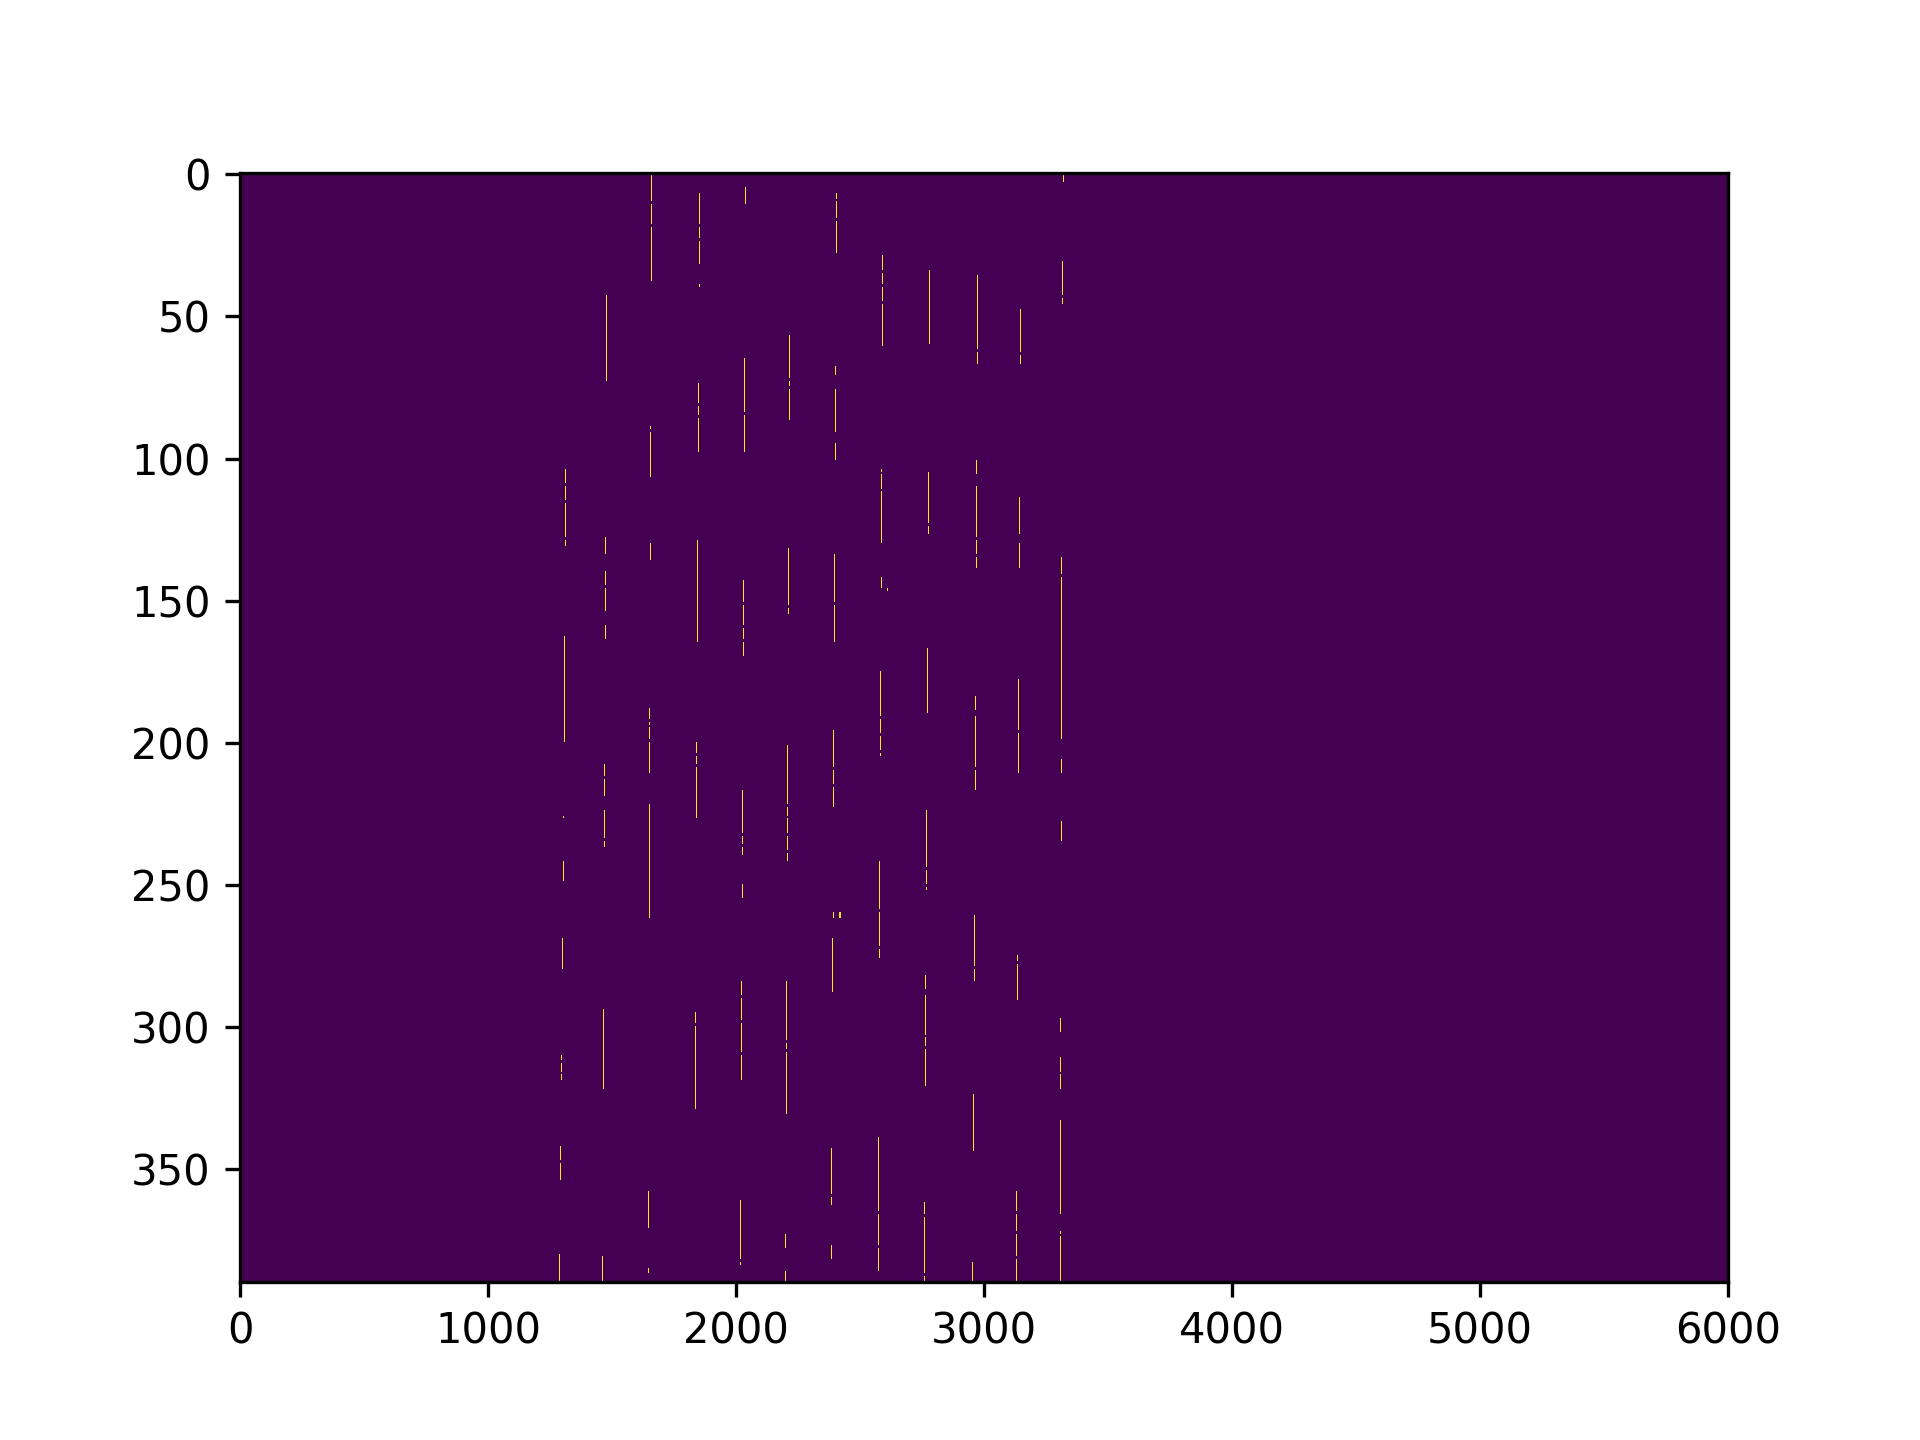
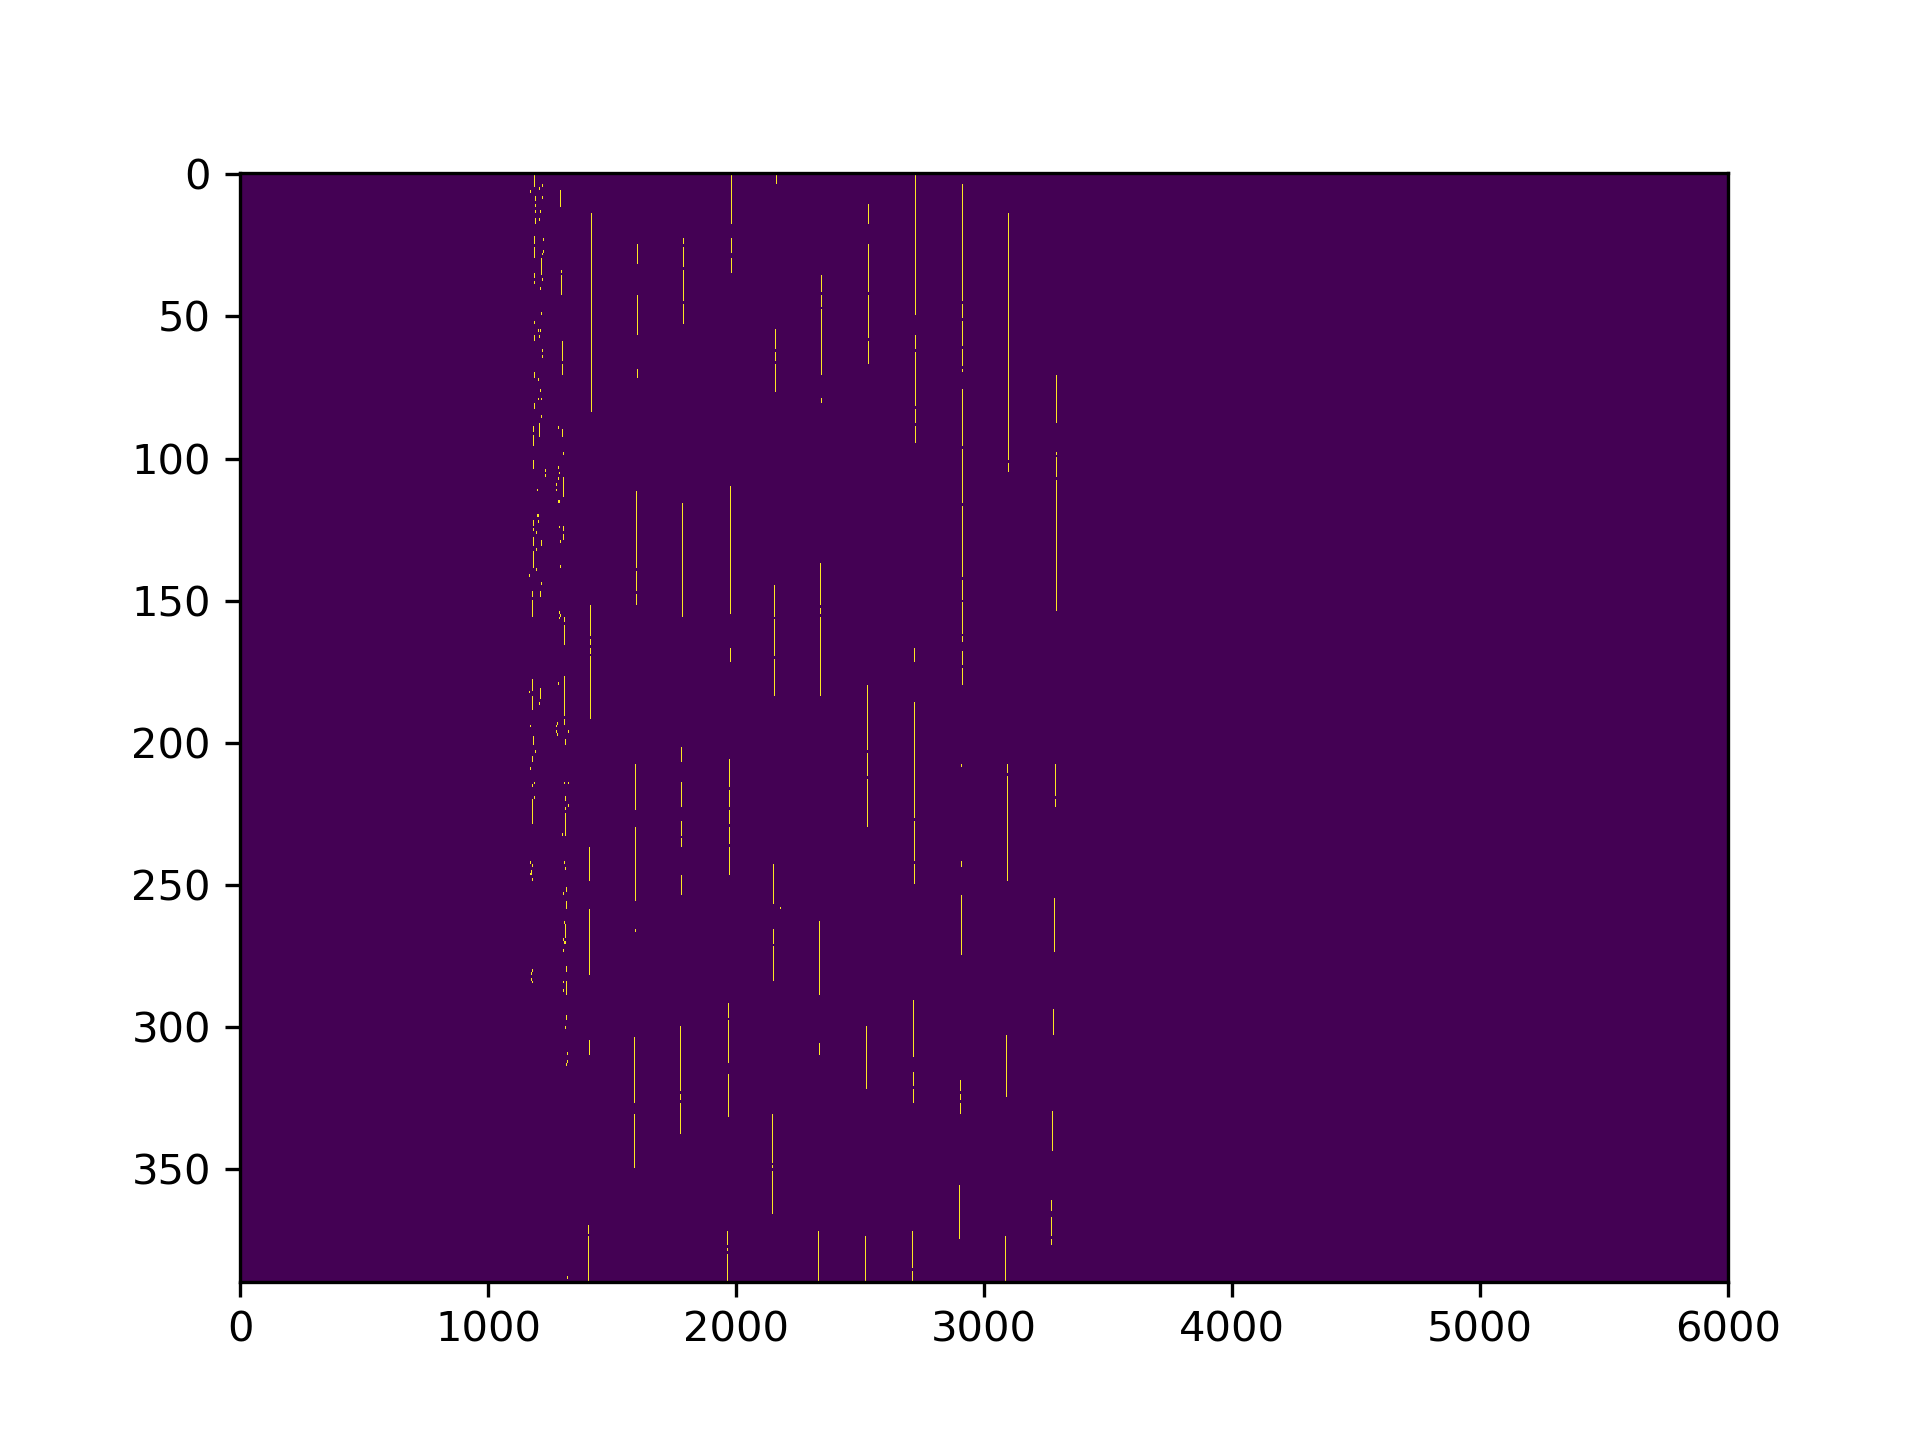
Linux MP changes

diff --git a/sectorImage/core/calibration.py b/sectorImage/core/calibration.py
@@ -104,8 +104,11 @@ class Calibrator:
             im += (np.abs(im_y) * scaling).astype(np.int16, copy=False)
             del im_y
         else:
-
-            im = cv2.linearPolar(im, c_estimate, im.shape[1] + dx, cv2.WARP_INVERSE_MAP)
+            # Apparently opencv breaks if the transformed image isn't copied first in multiprocessing.
+            # Go figure...
+            cpy = np.copy(im)
+            im = cv2.linearPolar(cpy, c_estimate, im.shape[1] + dx, cv2.WARP_INVERSE_MAP)
+            print(np.max(im))
             im *= -1
 
         # cv2.threshold(src=im, dst=im, thresh=0, maxval=255, type=cv2.THRESH_TOZERO)[1]
@@ -113,15 +116,16 @@ class Calibrator:
 
         # print('Thresholding')
         # mean_val = np.mean(im)
+        # print(np.max(im))
         std_val = np.std(im)
         # thresh = mean_val + 3 * std_val
         thresh = 2 * std_val
         # im *= -1
-
+        filtered = np.copy(im)
         cv2.threshold(src=im, dst=im, thresh=thresh, maxval=1, type=cv2.THRESH_BINARY)
 
         # morph_kernel = np.ones((5, 5), np.uint8)
-        filtered = np.copy(im)
+
         # morph_kernel_small = np.ones((3, 3), np.uint8)
         #cv2.morphologyEx(src=im, dst=im, op=cv2.MORPH_OPEN, iterations=1, kernel=morph_kernel)
         #cv2.morphologyEx(src=im, dst=im, op=cv2.MORPH_CLOSE, iterations=1, kernel=morph_kernel)
@@ -157,7 +161,7 @@ class Calibrator:
             fig = plt.figure()
             ax = fig.add_subplot(111)
             ax.plot(data[0], data[1], lw=.1, color='red', alpha=0.5)
-            ax.imshow(src)
+            ax.imshow(filtered)
             #ax.set_xlim([5700, 6000])
             #ax.set_ylim([1200, 2700])
             ax.set_aspect('auto')
@@ -441,6 +445,7 @@ class Calibrator:
             y_m = np.mean(y)
             mp = np.array([x_m, y_m])
             center_estimates = np.append(center_estimates, mp)
+
         opt = optimize.least_squares(self.f_multivariate, center_estimates, args=data, jac='2-point')
         calibration = []
         Rs = []

diff --git a/sectorImage/combinedSequence.py b/sectorImage/combinedSequence.py
@@ -18,8 +18,9 @@ def CombinedSequence(n, directory, env):
     t1 = time.time()
     c = Calibrator(fns)
     calibration = c.computeAll()
-    oscillation, calibrationNew = c.oscillationCircle()
-    c.plotCalibration()
+    print(calibration)
+    #oscillation, calibrationNew = c.oscillationCircle()
+    # c.plotCalibration()
     print(_C.BOLD + _C.CYAN + 'Calibration completed in ' + str(round(time.time() - t1, 2)) + 's' + _C.ENDC)
     t2 = time.time()
     s = Stitcher(fns, calibration=calibration, mpflag=True, env=env)

diff --git a/applied/main.py b/applied/main.py
@@ -11,10 +11,10 @@ from pair import Pair
 def main():
     s = Sequence(offsite=True)
     s.prime()
-    #pair = s.measure(n=16)
-    # pair.store()
+    pair = s.measure(n=16)
+    pair.store()
     # pair.load()
-    pair = Pair('CSAT_RD-OFFSITE.h5', fromFile=True)
+    # pair = Pair('CSAT_RD-OFFSITE.h5', fromFile=True)
     pair.computeGap()
     # pair.plot()
     # s.storeSpiral(spiral)
